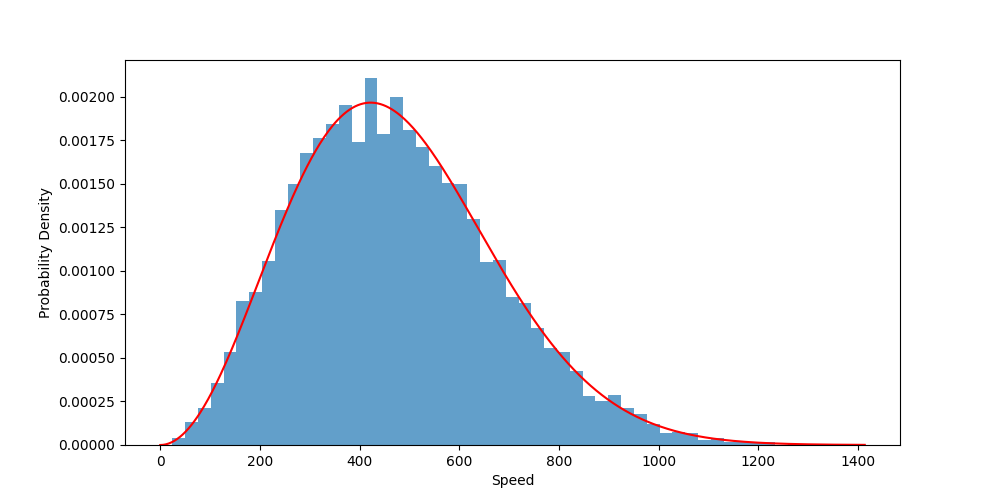
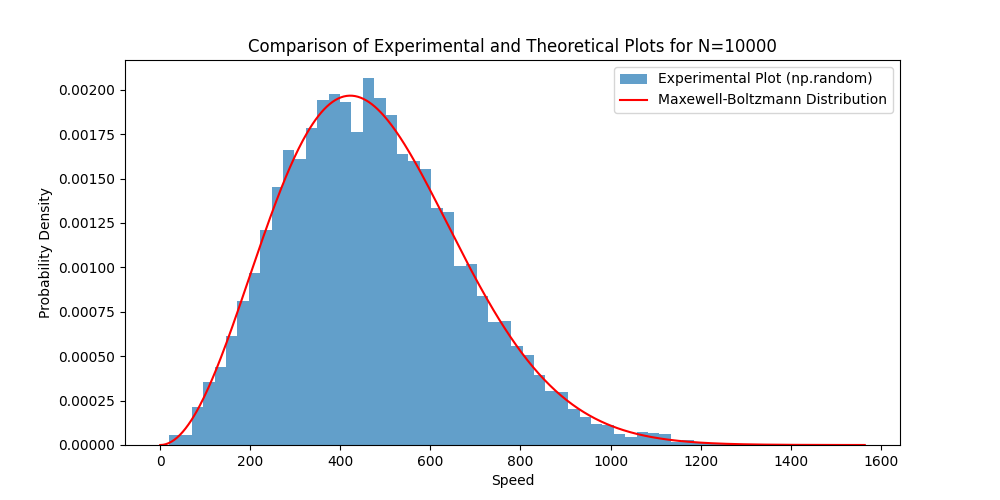
Labeled plots

diff --git a/code/distribution_analysis.py b/code/distribution_analysis.py
@@ -7,7 +7,7 @@ T = 300 ; m = 4.65e-26
 k_B = 1.380649e-23  # Boltzmann Constant (J/K)
 
 # ---------- Velocities and Speed -------------
-velocity_comp = generate_velocities(N=10000, T=T, m=m)
+velocity_comp = generate_velocities(N=100000, T=T, m=m)
 speeds = compute_speeds(velocities=velocity_comp)
 
 
@@ -17,14 +17,16 @@ def plots(speeds: np.ndarray):
     '''
     plt.figure(figsize=(10,5))
 
-    plt.hist(speeds, bins='fd', density=True, alpha=0.7) # Histogram plot
+    plt.hist(speeds, bins='fd', density=True, alpha=0.7, label='Experimental Plot (np.random)') # Histogram plot
     plt.xlabel('Speed')
     plt.ylabel('Probability Density')
 
     # Theoretical Plot
     v = np.linspace(0, max(speeds), 500)
     f = 4*np.pi*(m/(2*np.pi*k_B*T))**(3/2)*(v**2)*np.exp(-m*v**2/(2*k_B*T))
-    plt.plot(v, f, color='red')
+    plt.plot(v, f, color='red', label='Maxewell-Boltzmann Distribution')
+    plt.legend()
+    plt.title(f'Comparison of Experimental and Theoretical Plots for N={len(speeds)}')
     plt.show()
 
 plots(speeds)